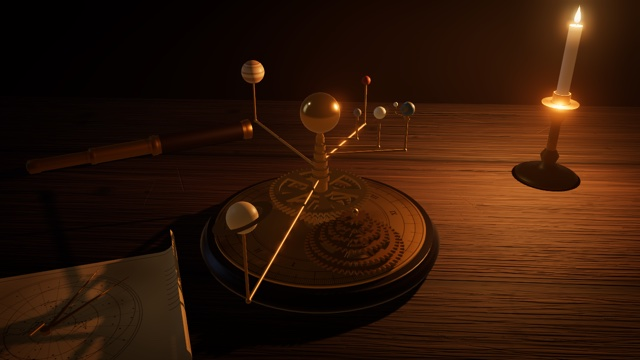
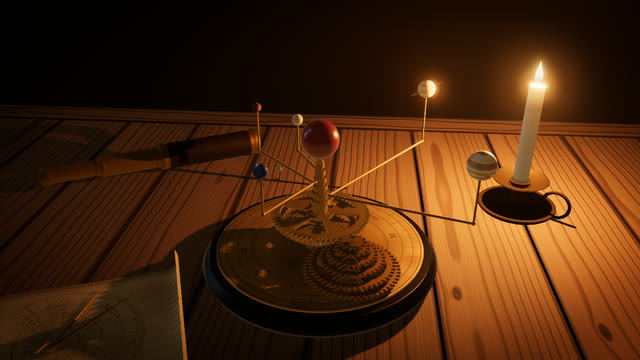
orrery の負荷を減らす（太陽の透過をやめ、描く回数を 60 回までにする）
- 太陽のガラスを、光を通す描き方（transmission）から、深い赤の地に艶の層（clearcoat）を
  重ねる描き方にする。透過は不透明な物を全部もう 1 回描き、コマ全体の約 3 分の 1 を使っていた
  （FHD のコマ全体 10.4 → 7.0ms、描画命令 510 → 316）
- 1 秒に描く回数の上限を 60 回にする（jellyfish と同じ nextDraw）。120Hz などの画面で負荷が半分になる
- README のサムネイルを、今の見た目で撮り直す

diff --git a/orrery.html b/orrery.html
@@ -89,9 +89,10 @@ const PLANET_LOOKS = {
 const PLANET_SEED = 7;            // 模様の乱数の種（配置の乱数とは別）
 const PLANE_Y = 0.215;            // 太陽と惑星の球の中心の高さ
 const SUN_RADIUS = 0.028;
-// 太陽は橙色のガラス玉。少し光を通し、奥ほど深い色に沈む（光らせない）。
-// transmission: 光を通す割合（0〜1。小さいほど不透明）、depth: 奥の色、depthDistance: その色に染まる深さ（m。小さいほど濃い）
-const SUN_GLASS = { color: 0xd8701e, depth: 0x7a3008, depthDistance: 0.025, transmission: 0.45, roughness: 0.04, ior: 1.52 };
+// 太陽は深い赤橙のガラス玉（光らせない）。光を通す描き方（transmission）は不透明な物を全部もう 1 回描いて重いので、
+// 光を通さない深い赤の地に、磨いたガラスの艶の層（clearcoat）を重ねてガラスに見せる（地が明るいと陶器のように見える）。
+// roughness: 地の粗さ（照り返しは艶の層に任せるので粗め）、gloss: 艶の層の粗さ
+const SUN_GLASS = { color: 0x8a3212, roughness: 0.3, gloss: 0.03 };
 const ARM_TOP_Y = 0.175;          // いちばん内側（水星）の腕の高さ。外側ほど下に付く
 const ARM_PITCH_Y = 0.012;        // 腕の段の間隔
 const ARM_RADIUS = 0.002;         // 腕の太さ（半径）
@@ -162,6 +163,7 @@ const ENV = {
 };
 
 const MAX_PIXEL_RATIO = { pc: 1.5, touch: 1 };  // 解像度の倍率の上限（pc: PC、touch: スマホなど）
+const MAX_FPS = 60;               // 1 秒に描く回数の上限（120Hz などの画面での CPU と GPU の負荷を抑える）
 const MSAA_SAMPLES = 4;           // シーンを描く描画先の MSAA
 const BLOOM = { strength: 0.45, radius: 0.8, threshold: 1.3, scale: 0.5, sigma: 0.4 };   // scale: ブルームを描く解像度の倍率、sigma: ぼかしの標準偏差（ぼかしの半径に対する割合）
 const VIGNETTE = 0.55;            // 周辺減光の強さ（画面の隅で暗くする割合）
@@ -312,7 +314,7 @@ const brassAged = metal(BRASS_AGED, BRASS_ROUGHNESS.aged);
 // 天板の木目。丸太から切り出した板の表面に出る年輪の断面を、1 画素ずつ求める。年輪の中心（芯）から外れた所を通る年輪が、
 // 板目の山形の模様になる。色（map）と凹凸（bumpMap）を同時に描く（荒い仕上げなので、柔らかい明るい部分がへこむ）
 // plankWidth・length: 貼る板の幅と長さ（m。年輪の間隔と縁の丸まり、節の形を、板の大きさによらず揃えるため）
-function plankTextures(plankWidth, length = DESK.depth) {
+function plankTextures(plankWidth, length) {
   const [W, H] = WOOD_TEXTURE;
   const g = document.createElement('canvas').getContext('2d'), b = document.createElement('canvas').getContext('2d');
   g.canvas.width = b.canvas.width = W;
@@ -352,7 +354,7 @@ function plankTextures(plankWidth, length = DESK.depth) {
   map.anisotropy = bumpMap.anisotropy = TEXTURE_ANISOTROPY;
   return { map, bumpMap };
 }
-const plankWoods = Array.from({ length: PLANKS.variants }, () => plankTextures((PLANKS.width[0] + PLANKS.width[1]) / 2));
+const plankWoods = Array.from({ length: PLANKS.variants }, () => plankTextures((PLANKS.width[0] + PLANKS.width[1]) / 2, DESK.depth - PLANKS.trim));
 const trimWood = plankTextures(PLANKS.trim, DESK.width);
 
 // ---- 歯車 ----
@@ -629,9 +631,8 @@ const dialMaterial = Object.assign(metal(0xffffff, BRASS_ROUGHNESS.dial), { map:
 orrery.add(column(0.0022, PLATE_Y, PLANE_Y, brass, 12));
 {
   const sun = ball(SUN_RADIUS, new THREE.MeshPhysicalMaterial({
-    color: SUN_GLASS.color, metalness: 0, roughness: SUN_GLASS.roughness, ior: SUN_GLASS.ior,
-    transmission: SUN_GLASS.transmission, thickness: SUN_RADIUS * 2,
-    attenuationColor: new THREE.Color(SUN_GLASS.depth), attenuationDistance: SUN_GLASS.depthDistance,
+    color: SUN_GLASS.color, metalness: 0, roughness: SUN_GLASS.roughness,
+    clearcoat: 1, clearcoatRoughness: SUN_GLASS.gloss,
   }));
   sun.position.y = PLANE_Y;
   orrery.add(sun);
@@ -657,21 +658,21 @@ orrery.add(layshaft);
 // 惑星ごとの部品。主軸の歯車・筒・腕・球をまとめて回す（group.rotation.y = earthAngle × ratio + phase）
 const planetBalls = [];   // 惑星と月の球
 const planets = PLANETS.map((planet, i) => {
-  const shaftTeeth = GEAR_TEETH_SUM - planet.teeth;
-  const ratio = shaftTeeth / planet.teeth;
+  const layshaftTeeth = GEAR_TEETH_SUM - planet.teeth;
+  const ratio = layshaftTeeth / planet.teeth;
   const gearY = GEAR_BASE_Y + i * GEAR_PITCH_Y;
   const armY = ARM_TOP_Y - i * ARM_PITCH_Y;
   const tubeRadius = 0.0035 + i * 0.0015;
 
   // 副軸の歯車は、どれも歯の 1 つが +x を向いたまま副軸に固定する。主軸の歯が副軸を向くとき、
   // 副軸の歯車の谷が主軸を向くように、主軸の歯車の最初の角度を決める
-  const shaftGear = new THREE.Mesh(gearGeometry(shaftTeeth), brassAged);
-  shaftGear.position.y = gearY;
-  layshaft.add(shaftGear);
+  const layshaftGear = new THREE.Mesh(gearGeometry(layshaftTeeth), brassAged);
+  layshaftGear.position.y = gearY;
+  layshaft.add(layshaftGear);
   if (!HUBLESS.layshaft.includes(planet.name)) {
     layshaft.add(column(0.003 + GEAR_HUB.radius, gearY - GEAR_HUB.height / 2, gearY + GEAR_HUB.height / 2, brassAged));
   }
-  const phase = (layshaftAngle + Math.PI - 0.5 * TAU / shaftTeeth) * ratio + layshaftAngle;
+  const phase = (layshaftAngle + Math.PI - 0.5 * TAU / layshaftTeeth) * ratio + layshaftAngle;
 
   const group = new THREE.Group();
   const gear = new THREE.Mesh(gearGeometry(planet.teeth), brass);
@@ -782,7 +783,7 @@ function updateOrrery() {
     x += width;
   }
   const trim = board(PLANKS.trim, DESK.width, trimWood);   // 縁取りは、長さの方向を x に向ける
-  trim.rotation.y = Math.PI / 2;
+  trim.rotation.y += Math.PI / 2;
   trim.position.z = back + PLANKS.trim / 2;
   trim.position.y += PLANKS.trimRaise;   // 天板の板より少し高くして、段差を付ける
   const under = new THREE.Mesh(new THREE.BoxGeometry(DESK.width, DESK.thickness - PLANKS.thickness, DESK.depth),
@@ -1156,7 +1157,11 @@ function step(dt) {
 }
 
 let last = performance.now();
+let nextDraw = 0;            // 次に描いてよい時刻 (ms)
 function tick(now) {
+  // MAX_FPS より速くは描かない。描いてよい時刻は一定の間隔で進め、画面の更新の間隔の揺れで 1 回飛ばさないよう少し余裕を持たせる
+  if (now < nextDraw - 2) return;
+  nextDraw = Math.max(nextDraw + 1000 / MAX_FPS, now);
   // rAF のタイムスタンプは初期の performance.now() より前のことがあるので負にしない
   const dt = Math.max(0, Math.min((now - last) / 1000, 0.1));
   last = now;

diff --git a/docs/specs/orrery.md b/docs/specs/orrery.md
@@ -10,7 +10,7 @@
 
 ## オーラリー
 
-実在の機構として成り立つ形にする（現実感を優先する）。太陽は光らせず、橙色のガラス玉にする（少し光を通し、奥ほど深い色に沈む）。赤は火星と同じ系統の色になり、黄や琥珀はろうそくの暖かい光の下で濁るか、真鍮に溶け込むため。
+実在の機構として成り立つ形にする（現実感を優先する）。太陽は光らせず、深い赤橙のガラス玉にする（下半分が沈み、縁に部屋が映り込む）。明るい赤は火星と同じ系統の色になり、黄や琥珀はろうそくの暖かい光の下で濁るか、真鍮に溶け込むため。
 
 - **台座**: 黒檀風の円い木の台に、真鍮の足が 3 つ。上に、1 度ごとの目盛りと 12 等分のローマ数字を刻んだ真鍮の板を載せる。
 - **主軸**: 中央の動かない芯の先に太陽の球。芯のまわりに、惑星ごとの筒が同軸に重なる。筒は外側の惑星ほど太く短く、筒の上端から腕が水平に伸び、先で立ち上がって球を支える。腕の高さは惑星ごとに違う（外側ほど低い）が、球の中心はどれも太陽と同じ高さに揃える。
@@ -86,7 +86,7 @@
 - 独自のシェーダーは周辺減光だけ。金属・木・紙はどれも three.js の標準の素材で、模様は canvas に描く。惑星と月の模様は、経度の端でつながるノイズで 1 画素ずつ描き、乱数は `Math.random` と別のもの（種を固定）を使う。
 - 金属の映り込みには、暗い壁と天井、ろうそくに照らされた机、青い窓だけの簡単な部屋を起動時に 1 回撮って使う。真鍮が黒く沈まないよう、壁と天井は実際より少し明るくしてある。
 - 真鍮の照り返しは控えめにする（金属度を 1 より少し下げ、粗さを上げる）。ろうそくの照り返しが鋭い点になると、目がそこへ引かれ、ぎらついて見えるため。目盛りの板は広い平面でろうそくを映すので、ほかの真鍮より粗くする。
-- 太陽のガラスは three.js の透過（transmission）で描く。透過する物体があると、その奥を映すために、不透明な物をもう 1 回描く。
+- 太陽のガラスは、光を通さない深い赤の地に、磨いたガラスの艶の層（clearcoat）を重ねて描く。three.js の透過（transmission）は、透過する物体があると奥を映すために不透明な物を全部もう 1 回描き、コマ全体の約 3 分の 1 を使っていたため（地が明るいと陶器のように見えるので、地は暗く深い色にする）。
 - 点光源の影は 6 方向に描くので、影を落とすのはオーラリーと机の上の小物だけにする（机と壁は落とさない）。惑星と月の球、星図の裏は影を落とすが、受けない（影の解像度に対して球が小さい・巻いた面が曲がっているため、自分の影がギザギザに乗る）。
 - 歯車の形は歯数ごとに 1 つだけ作る。
 - 地球が回った角度は、どの歯数の比を掛けても 2π の整数倍になる角度（435 周）で巻き戻す。
